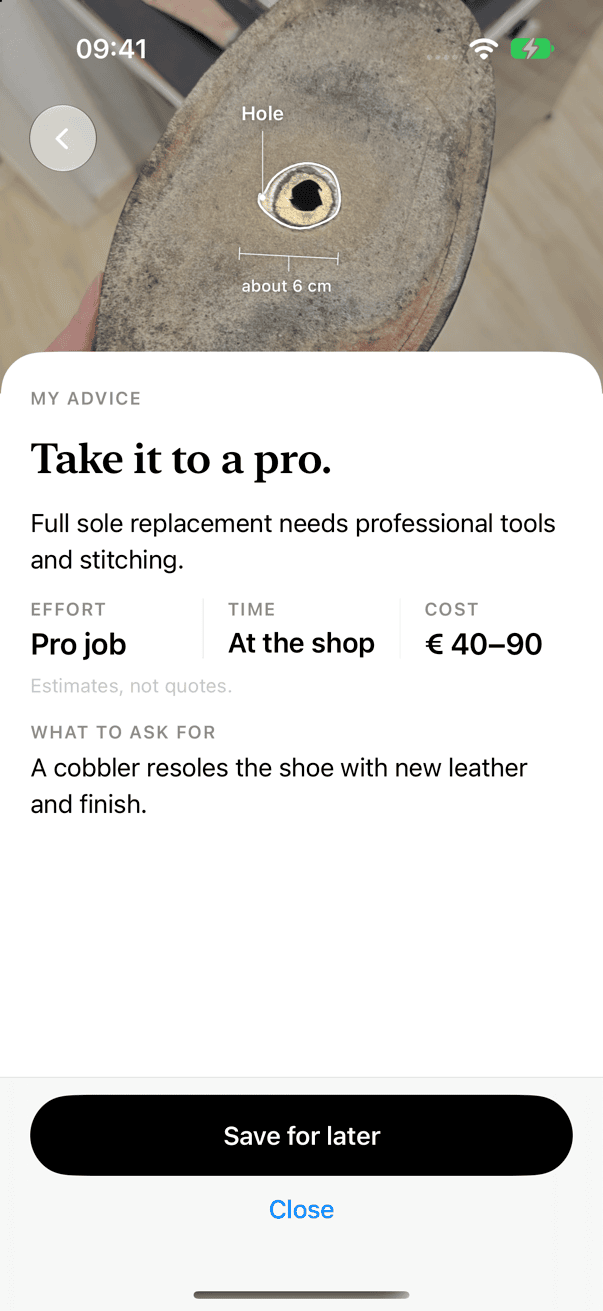
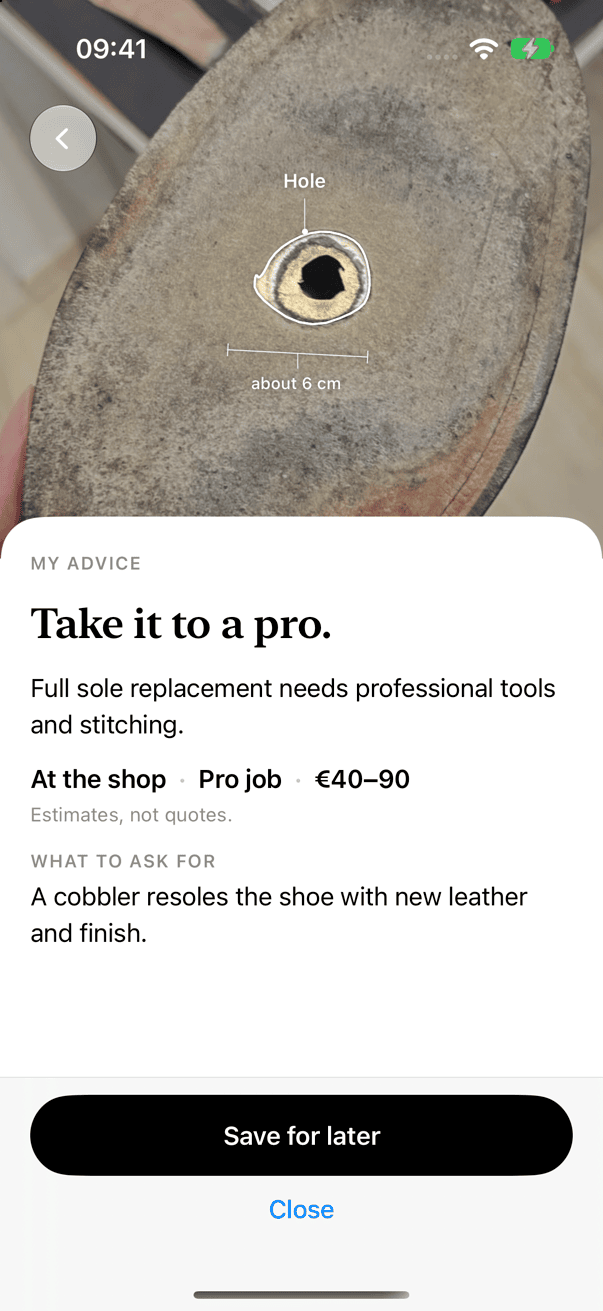
ios: Verdict mit hoeherem Foto-Hero, ruhiger Fakten-Zeile und vollflaechiger Vorschau ohne Slider

Changed region(s): [[0.0, 0.0, 1.0, 0.7323], [0.6567, 0.6712, 0.8657, 0.7018]]

diff --git a/ios/RepairAssistant/Views/DecisionView.swift b/ios/RepairAssistant/Views/DecisionView.swift
@@ -67,6 +67,11 @@ extension SecondLife {
     }
 }
 
+struct SheetHeightKey: PreferenceKey {
+    static let defaultValue: CGFloat = 0
+    static func reduce(value: inout CGFloat, nextValue: () -> CGFloat) { value = max(value, nextValue()) }
+}
+
 /// Verdict: a confident recommendation with the marked photo still the hero, time and cost as quiet facts, one next action.
 struct DecisionView: View {
     @Environment(FlowModel.self) private var flow
@@ -78,10 +83,13 @@ struct DecisionView: View {
         #endif
     }()
     @State private var factsShown = false
+    @State private var sheetHeight: CGFloat = 0
 
     var body: some View {
         GeometryReader { geo in
-            let photoHeight = geo.size.height * 0.40
+            // the photo takes whatever the sheet content and the CTA bar do not need
+            let free = geo.size.height - sheetHeight + Theme.heroRadius
+            let photoHeight = sheetHeight > 0 ? min(max(free, geo.size.height * 0.36), geo.size.height * 0.64) : geo.size.height * 0.45
             ZStack(alignment: .top) {
                 Theme.surface.ignoresSafeArea()
                 VStack(spacing: 0) {
@@ -107,14 +115,17 @@ struct DecisionView: View {
         ZStack(alignment: .top) {
             if let photo = flow.photo, let r = flow.response {
                 if repaired, let after = flow.afterImage {
-                    BeforeAfterSlider(before: photo, after: after, aspect: nil, cornerRadius: 0, labels: false)
-                        .overlay(alignment: .bottom) {
-                            Text("Preview").font(.caption.weight(.medium)).foregroundStyle(.white)
-                                .padding(.horizontal, 10).padding(.vertical, 3)
-                                .background(Color.black.opacity(0.35), in: Capsule())
-                                .padding(.bottom, Theme.heroRadius + 56)
-                        }
-                        .transition(.opacity)
+                    GeometryReader { g in
+                        Image(uiImage: after).resizable().scaledToFill()
+                            .frame(width: g.size.width, height: g.size.height).clipped()
+                    }
+                    .overlay(alignment: .topTrailing) {
+                        Text("Preview").font(.caption.weight(.semibold)).foregroundStyle(.white)
+                            .padding(.horizontal, 10).padding(.vertical, 4)
+                            .background(Color.black.opacity(0.4), in: Capsule())
+                            .padding(.trailing, Theme.margin).padding(.top, geo.safeAreaInsets.top + 18)
+                    }
+                    .transition(.opacity)
                 } else {
                     MarkedPhoto(image: photo, segments: r.segments, showLabels: r.decision?.recommendation != .replace, showDimension: true, focus: DamageFocus.region(for: r.segments))
                         .transition(.opacity)
@@ -163,8 +174,10 @@ struct DecisionView: View {
                 }
                 .frame(maxWidth: .infinity, alignment: .leading)
                 .padding(.horizontal, Theme.margin).padding(.top, 24).padding(.bottom, 24)
+                .background(GeometryReader { g in Color.clear.preference(key: SheetHeightKey.self, value: g.size.height) })
             }
         }
+        .onPreferenceChange(SheetHeightKey.self) { sheetHeight = $0 }
         .scrollIndicators(.hidden)
         .background(Theme.surface, in: UnevenRoundedRectangle(topLeadingRadius: Theme.heroRadius, topTrailingRadius: Theme.heroRadius, style: .continuous))
     }
@@ -187,31 +200,19 @@ struct DecisionView: View {
         }
     }
 
-    /// Effort / time / cost as quiet columns separated by hairlines (Zopa rows, no cards).
+    /// One calm sentence-row: "About 30 min · Low effort · €3–8".
     private func facts(_ d: Decision, pro: Bool = false) -> some View {
-        VStack(alignment: .leading, spacing: 8) {
-            HStack(alignment: .top, spacing: 0) {
-                fact("Effort", pro ? "Pro job" : effortText(d.effort))
-                divider
-                fact("Time", pro ? "At the shop" : Fmt.duration(d.timeMinutes))
-                divider
-                fact("Cost", Fmt.cost(d.costEur))
-            }
-            Text("Estimates, not quotes.").font(.footnote).foregroundStyle(Theme.inkTertiary)
+        let sep = Text("  ·  ").foregroundStyle(Theme.inkTertiary)
+        let time = Text(pro ? "At the shop" : Fmt.duration(d.timeMinutes))
+        let effort = Text(pro ? "Pro job" : tr("\(effortText(d.effort)) effort"))
+        let cost = Text(Fmt.cost(d.costEur))
+        return VStack(alignment: .leading, spacing: 6) {
+            (time + sep + effort + sep + cost)
+                .font(.headline).foregroundStyle(Theme.ink).monospacedDigit()
+                .fixedSize(horizontal: false, vertical: true)
+            Text("Estimates, not quotes.").font(.footnote).foregroundStyle(Theme.inkSecondary)
         }
         .opacity(factsShown ? 1 : 0)
-    }
-
-    private var divider: some View { Rectangle().fill(Theme.hairline).frame(width: 0.5, height: 40).padding(.horizontal, 16) }
-
-    private func fact(_ label: String, _ value: String) -> some View {
-        VStack(alignment: .leading, spacing: 4) {
-            Text(label).overline()
-            Text(value).font(.title3.weight(.semibold)).monospacedDigit().foregroundStyle(Theme.ink)
-                .minimumScaleFactor(0.8).lineLimit(1).contentTransition(.numericText())
-        }
-        .frame(maxWidth: .infinity, alignment: .leading)
-        .accessibilityElement(children: .combine)
     }
 
     private func effortText(_ e: Effort) -> String {
